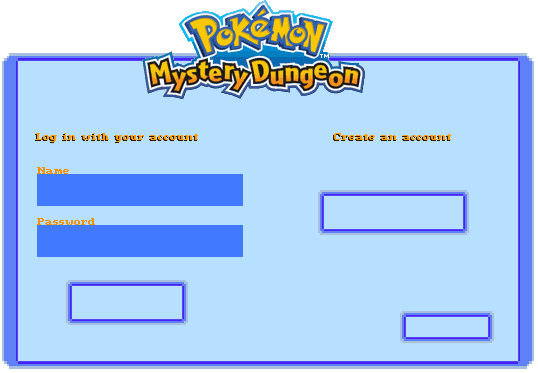
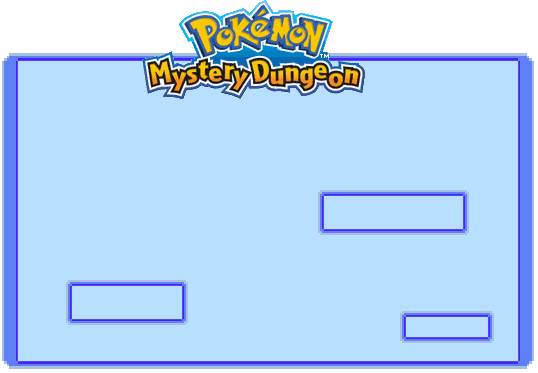
Loginscreen polished

diff --git a/PMDMMOc/src/com/darkxell/client/state/mainstates/LoginMainState.java b/PMDMMOc/src/com/darkxell/client/state/mainstates/LoginMainState.java
@@ -1,6 +1,7 @@
 package com.darkxell.client.state.mainstates;
 
 import java.awt.Color;
+import java.awt.Font;
 import java.awt.Graphics2D;
 import java.awt.event.KeyEvent;
 
@@ -9,6 +10,7 @@ import com.darkxell.client.launchable.GameSocketEndpoint;
 import com.darkxell.client.launchable.Persistance;
 import com.darkxell.client.launchable.crypto.Encryption;
 import com.darkxell.client.mechanics.chat.CustomTextfield;
+import com.darkxell.client.resources.Res;
 import com.darkxell.client.resources.images.Sprites;
 import com.darkxell.client.state.OpenningState;
 import com.darkxell.client.state.PlayerLoadingState;
@@ -28,6 +30,8 @@ import com.darkxell.common.util.language.Message;
 import com.eclipsesource.json.JsonObject;
 
 public class LoginMainState extends StateManager {
+
+	private static final boolean DEBUGALLOWED = true;
 
 	private CustomTextfield login = new CustomTextfield();
 	private CustomTextfield password = new CustomTextfield().setObfuscated();
@@ -95,6 +99,7 @@ public class LoginMainState extends StateManager {
 		password.onKeyTyped(e);
 	}
 
+	@SuppressWarnings("unused")
 	@Override
 	public void onMouseClick(int x, int y) {
 		// Button clicks
@@ -104,7 +109,7 @@ public class LoginMainState extends StateManager {
 		} else if (button_login.isInside(new Position(mouseX - offsetx, mouseY - offsety))) {
 			if (Persistance.socketendpoint.connectionStatus() == GameSocketEndpoint.CONNECTED)
 				launchOnlineSend();
-		} else if (button_offline.isInside(new Position(mouseX - offsetx, mouseY - offsety))) {
+		} else if (button_offline.isInside(new Position(mouseX - offsetx, mouseY - offsety)) && DEBUGALLOWED) {
 			launchOffline();
 		}
 		// Textfield focus
@@ -139,13 +144,37 @@ public class LoginMainState extends StateManager {
 
 	@Override
 	public void render(Graphics2D g, int width, int height) {
+		Graphics2D gcopy = (Graphics2D) g.create();
 		MainUiUtility.drawBackground(g, width, height, (byte) 1);
 		offsetx = width / 2 - squarewidth / 2;
 		offsety = height / 2 - squareheight / 2;
 		int relativemousex = mouseX - offsetx, relativemousey = mouseY - offsety;
 		g.translate(offsetx, offsety);
+		gcopy.translate(offsetx, offsety);
 		// DRAWS THE LOGIN FACILITIES
 		g.drawImage(Sprites.Res_Hud.loginframe.image(), 0, 0, null);
+
+		gcopy.setColor(Color.BLACK);
+		gcopy.setFont(Res.getFont().deriveFont(26f).deriveFont(Font.BOLD));
+		gcopy.drawString("Log in with your account", 36, 131);
+		gcopy.drawString("Create account", 334, 131);
+		gcopy.setColor(new Color(242, 145, 0));
+		gcopy.drawString("Log in with your account", 38, 132);
+		gcopy.drawString("Create account", 336, 132);
+
+		// Draws the textfield backgrounds
+		g.setColor(new Color(66, 122, 255));
+		g.fillRect((int) textfield_login.x, (int) textfield_login.y, (int) textfield_login.width,
+				(int) textfield_login.height);
+		g.fillRect((int) textfield_pass.x, (int) textfield_pass.y, (int) textfield_pass.width,
+				(int) textfield_pass.height);
+
+		gcopy.setColor(new Color(242, 145, 0));
+		gcopy.setFont(Res.getFont().deriveFont(20f).deriveFont(Font.BOLD));
+		gcopy.drawString("Login", (int) textfield_login.x, (int) textfield_login.y);
+		gcopy.drawString("Password", (int) textfield_pass.x, (int) textfield_pass.y);
+
+		// Draws the textfields
 
 		g.translate(textfield_login.x + 10, textfield_login.y);
 		this.login.render(g, (int) textfield_login.width - 20, (int) textfield_login.height - 15);
@@ -168,24 +197,29 @@ public class LoginMainState extends StateManager {
 		g.drawString(message, 39, 276);
 		g.setColor(messcolor);
 		g.drawString(message, 40, 275);
-		g.setColor(Color.BLACK);
-		g.drawString("LOGIN", (int) button_login.x + 25, (int) button_login.y + 20);
+		// Displays the buttons
+		gcopy.setFont(Res.getFont().deriveFont(24f).deriveFont(Font.BOLD));
+		gcopy.setColor(new Color(30, 15, 210));
+		gcopy.drawString("LOGIN", (int) button_login.x + 25, (int) button_login.y + 20);
 		g.setColor((button_createaccount.isInside(new Position(relativemousex, relativemousey))) ? selectedbuttoncolor
 				: buttoncolor);
 		if (Persistance.socketendpoint.connectionStatus() != GameSocketEndpoint.CONNECTED)
 			g.setColor(new Color(120, 120, 180));
 		g.fillRect((int) button_createaccount.x, (int) button_createaccount.y, (int) button_createaccount.width,
 				(int) button_createaccount.height);
-		g.setColor(Color.BLACK);
-		g.drawString("CREATE ACCOUNT", (int) button_createaccount.x + 15, (int) button_createaccount.y + 20);
+		gcopy.setColor(new Color(30, 15, 210));
+		gcopy.drawString("Create account", (int) button_createaccount.x + 15, (int) button_createaccount.y + 20);
 		g.setColor((button_offline.isInside(new Position(relativemousex, relativemousey))) ? selectedbuttoncolor
 				: buttoncolor);
+		if (!DEBUGALLOWED)
+			g.setColor(new Color(120, 120, 180));
 		g.fillRect((int) button_offline.x, (int) button_offline.y, (int) button_offline.width,
 				(int) button_offline.height);
-		g.setColor(Color.BLACK);
-		g.drawString("Offline debug", (int) button_offline.x + 5, (int) button_offline.y + 14);
+		gcopy.setColor(new Color(30, 15, 210));
+		gcopy.drawString("Debug", (int) button_offline.x + 5, (int) button_offline.y + 14);
 
 		// REVERT GRAPHICS
+		gcopy.dispose();
 		g.translate(-offsetx, -offsety);
 	}
 

diff --git a/PMDMMOc/src/com/darkxell/client/mechanics/chat/CustomTextfield.java b/PMDMMOc/src/com/darkxell/client/mechanics/chat/CustomTextfield.java
@@ -1,7 +1,6 @@
 package com.darkxell.client.mechanics.chat;
 
 import java.awt.Color;
-import java.awt.Font;
 import java.awt.FontMetrics;
 import java.awt.Graphics2D;
 import java.awt.Rectangle;
@@ -111,7 +110,7 @@ public class CustomTextfield {
 	public void setSelection(boolean a) {
 		this.unselected = !a;
 	}
-	
+
 	public boolean isSelected() {
 		return !this.unselected;
 	}
@@ -133,7 +132,7 @@ public class CustomTextfield {
 	 * List of all the untypable characters. Trying to type one of them will
 	 * result in the event being ignored.
 	 */
-	private static char[] untypables = new char[] {'\b','\t','\n','\f','\r',(char)0x7f};
+	private static char[] untypables = new char[] { '\b', '\t', '\n', '\f', '\r', (char) 0x7f };
 
 	/**
 	 * Should be called by a state that uses this textfield upon recieving a
